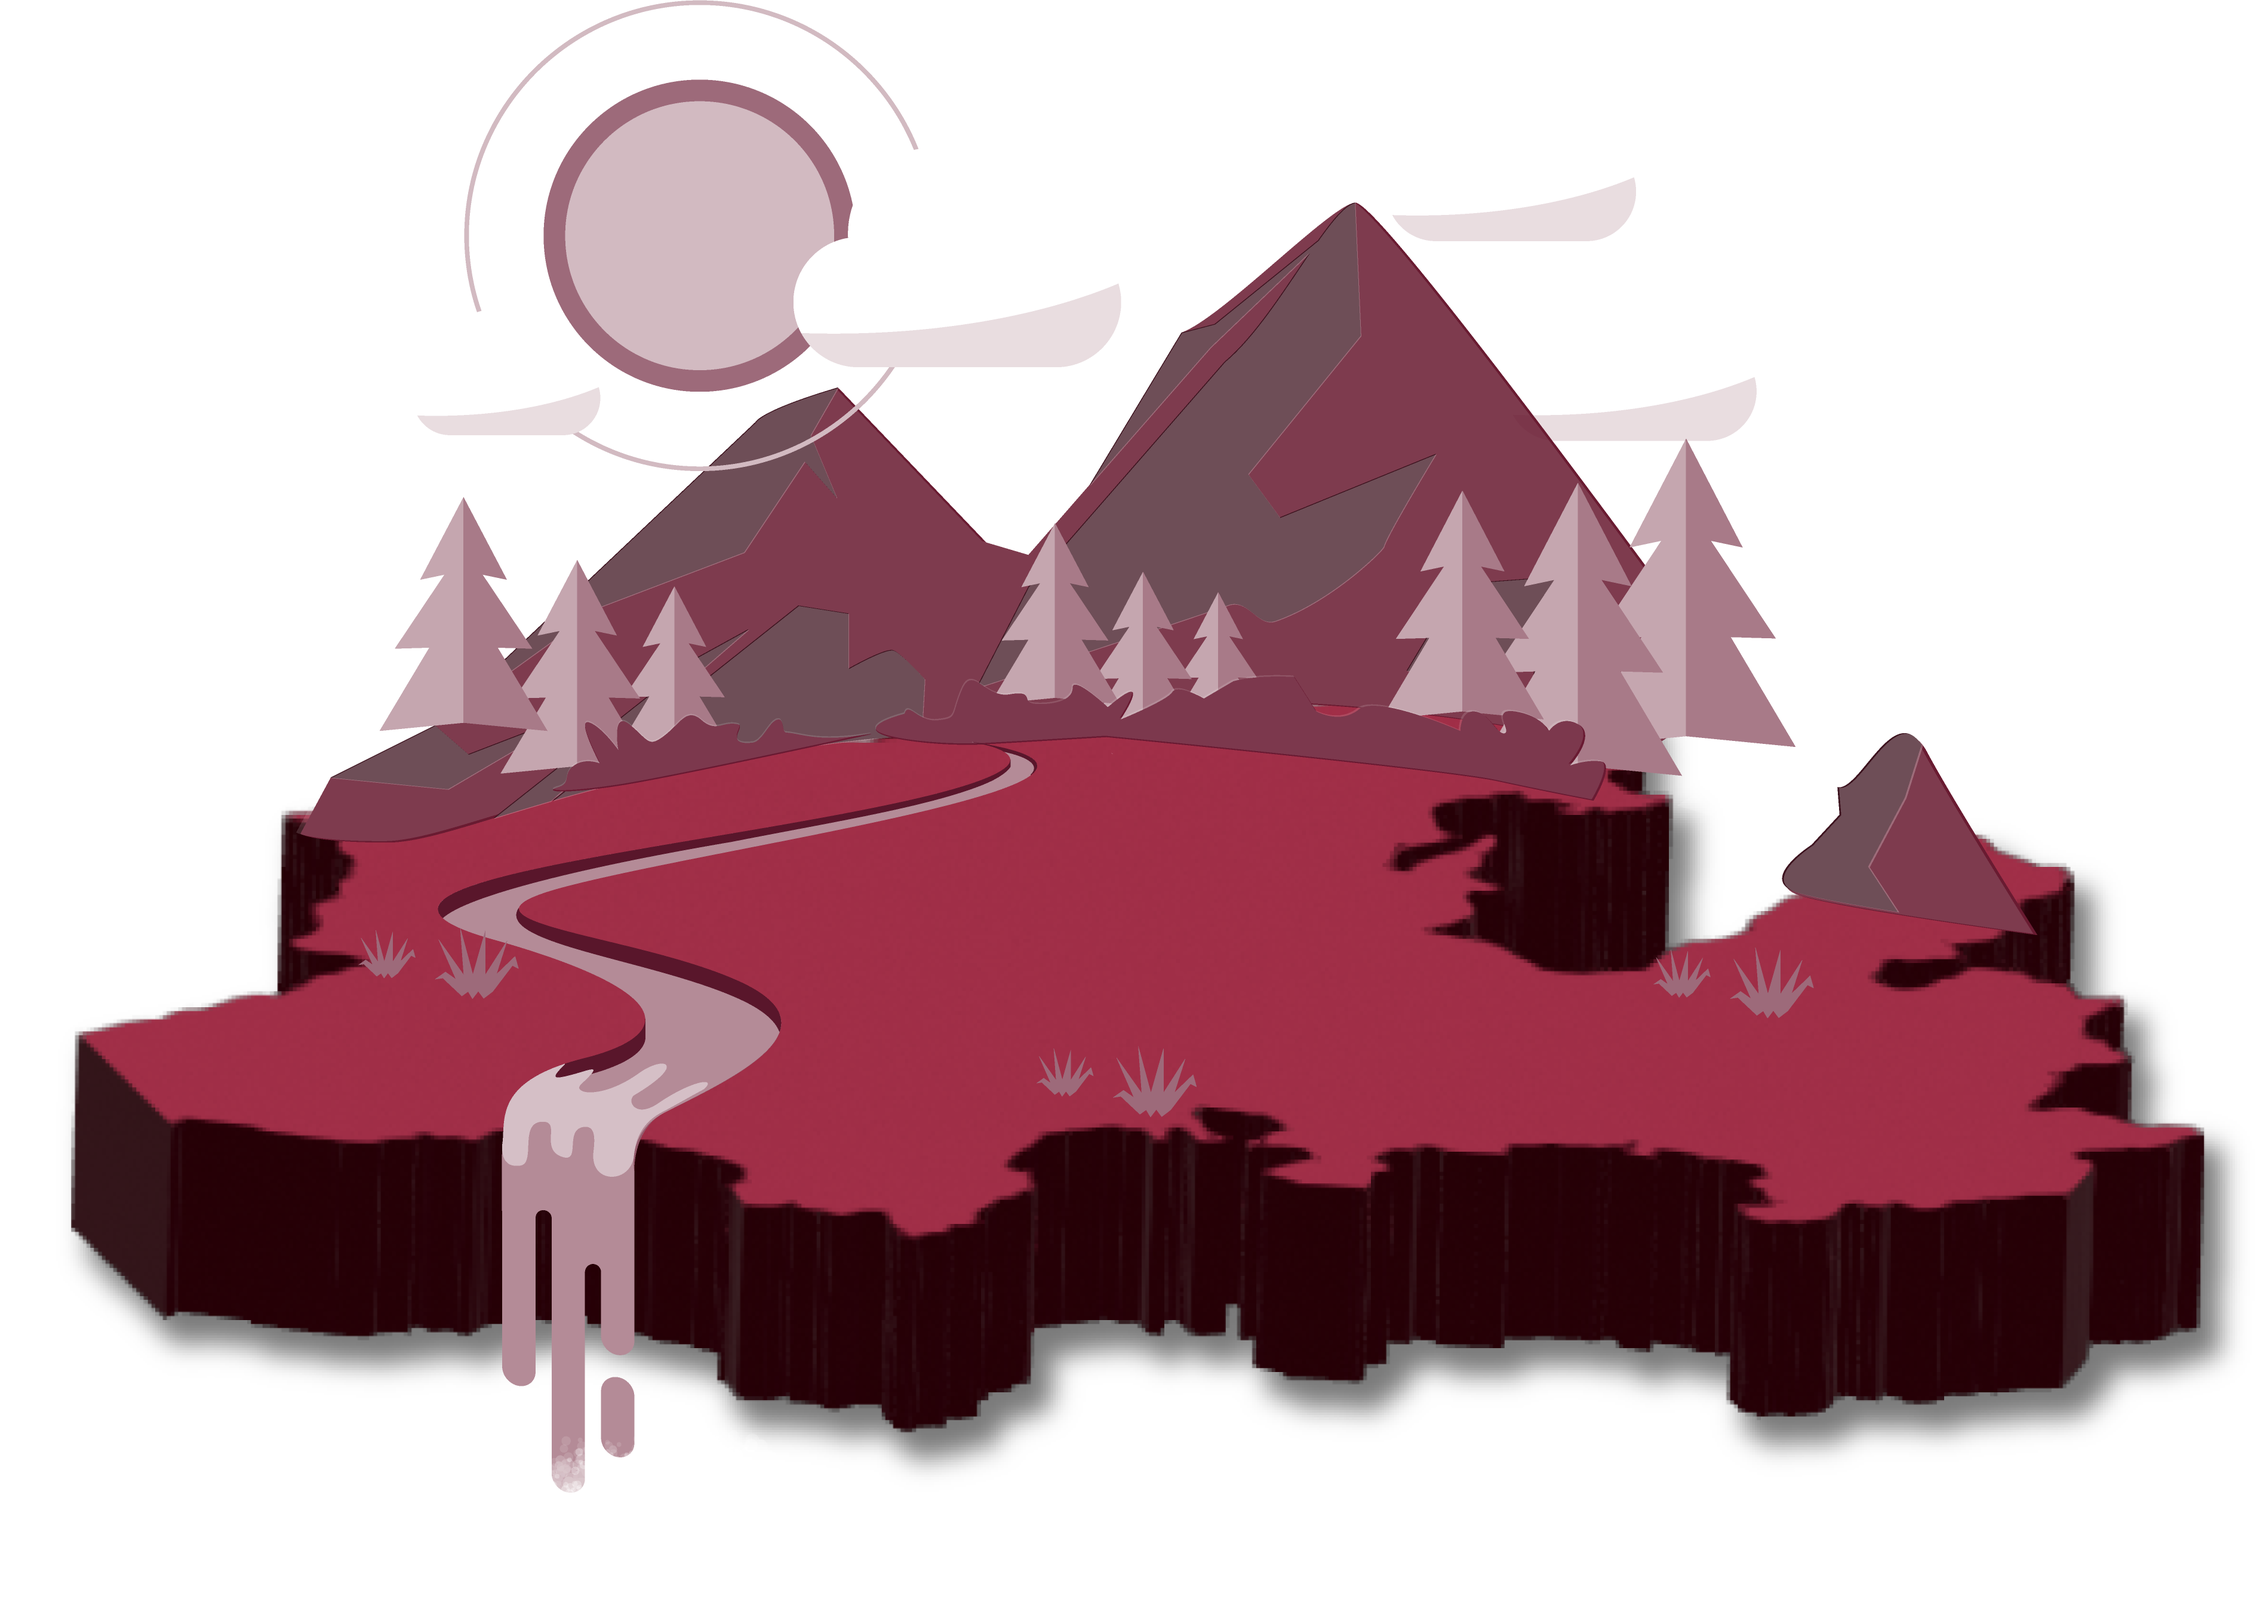
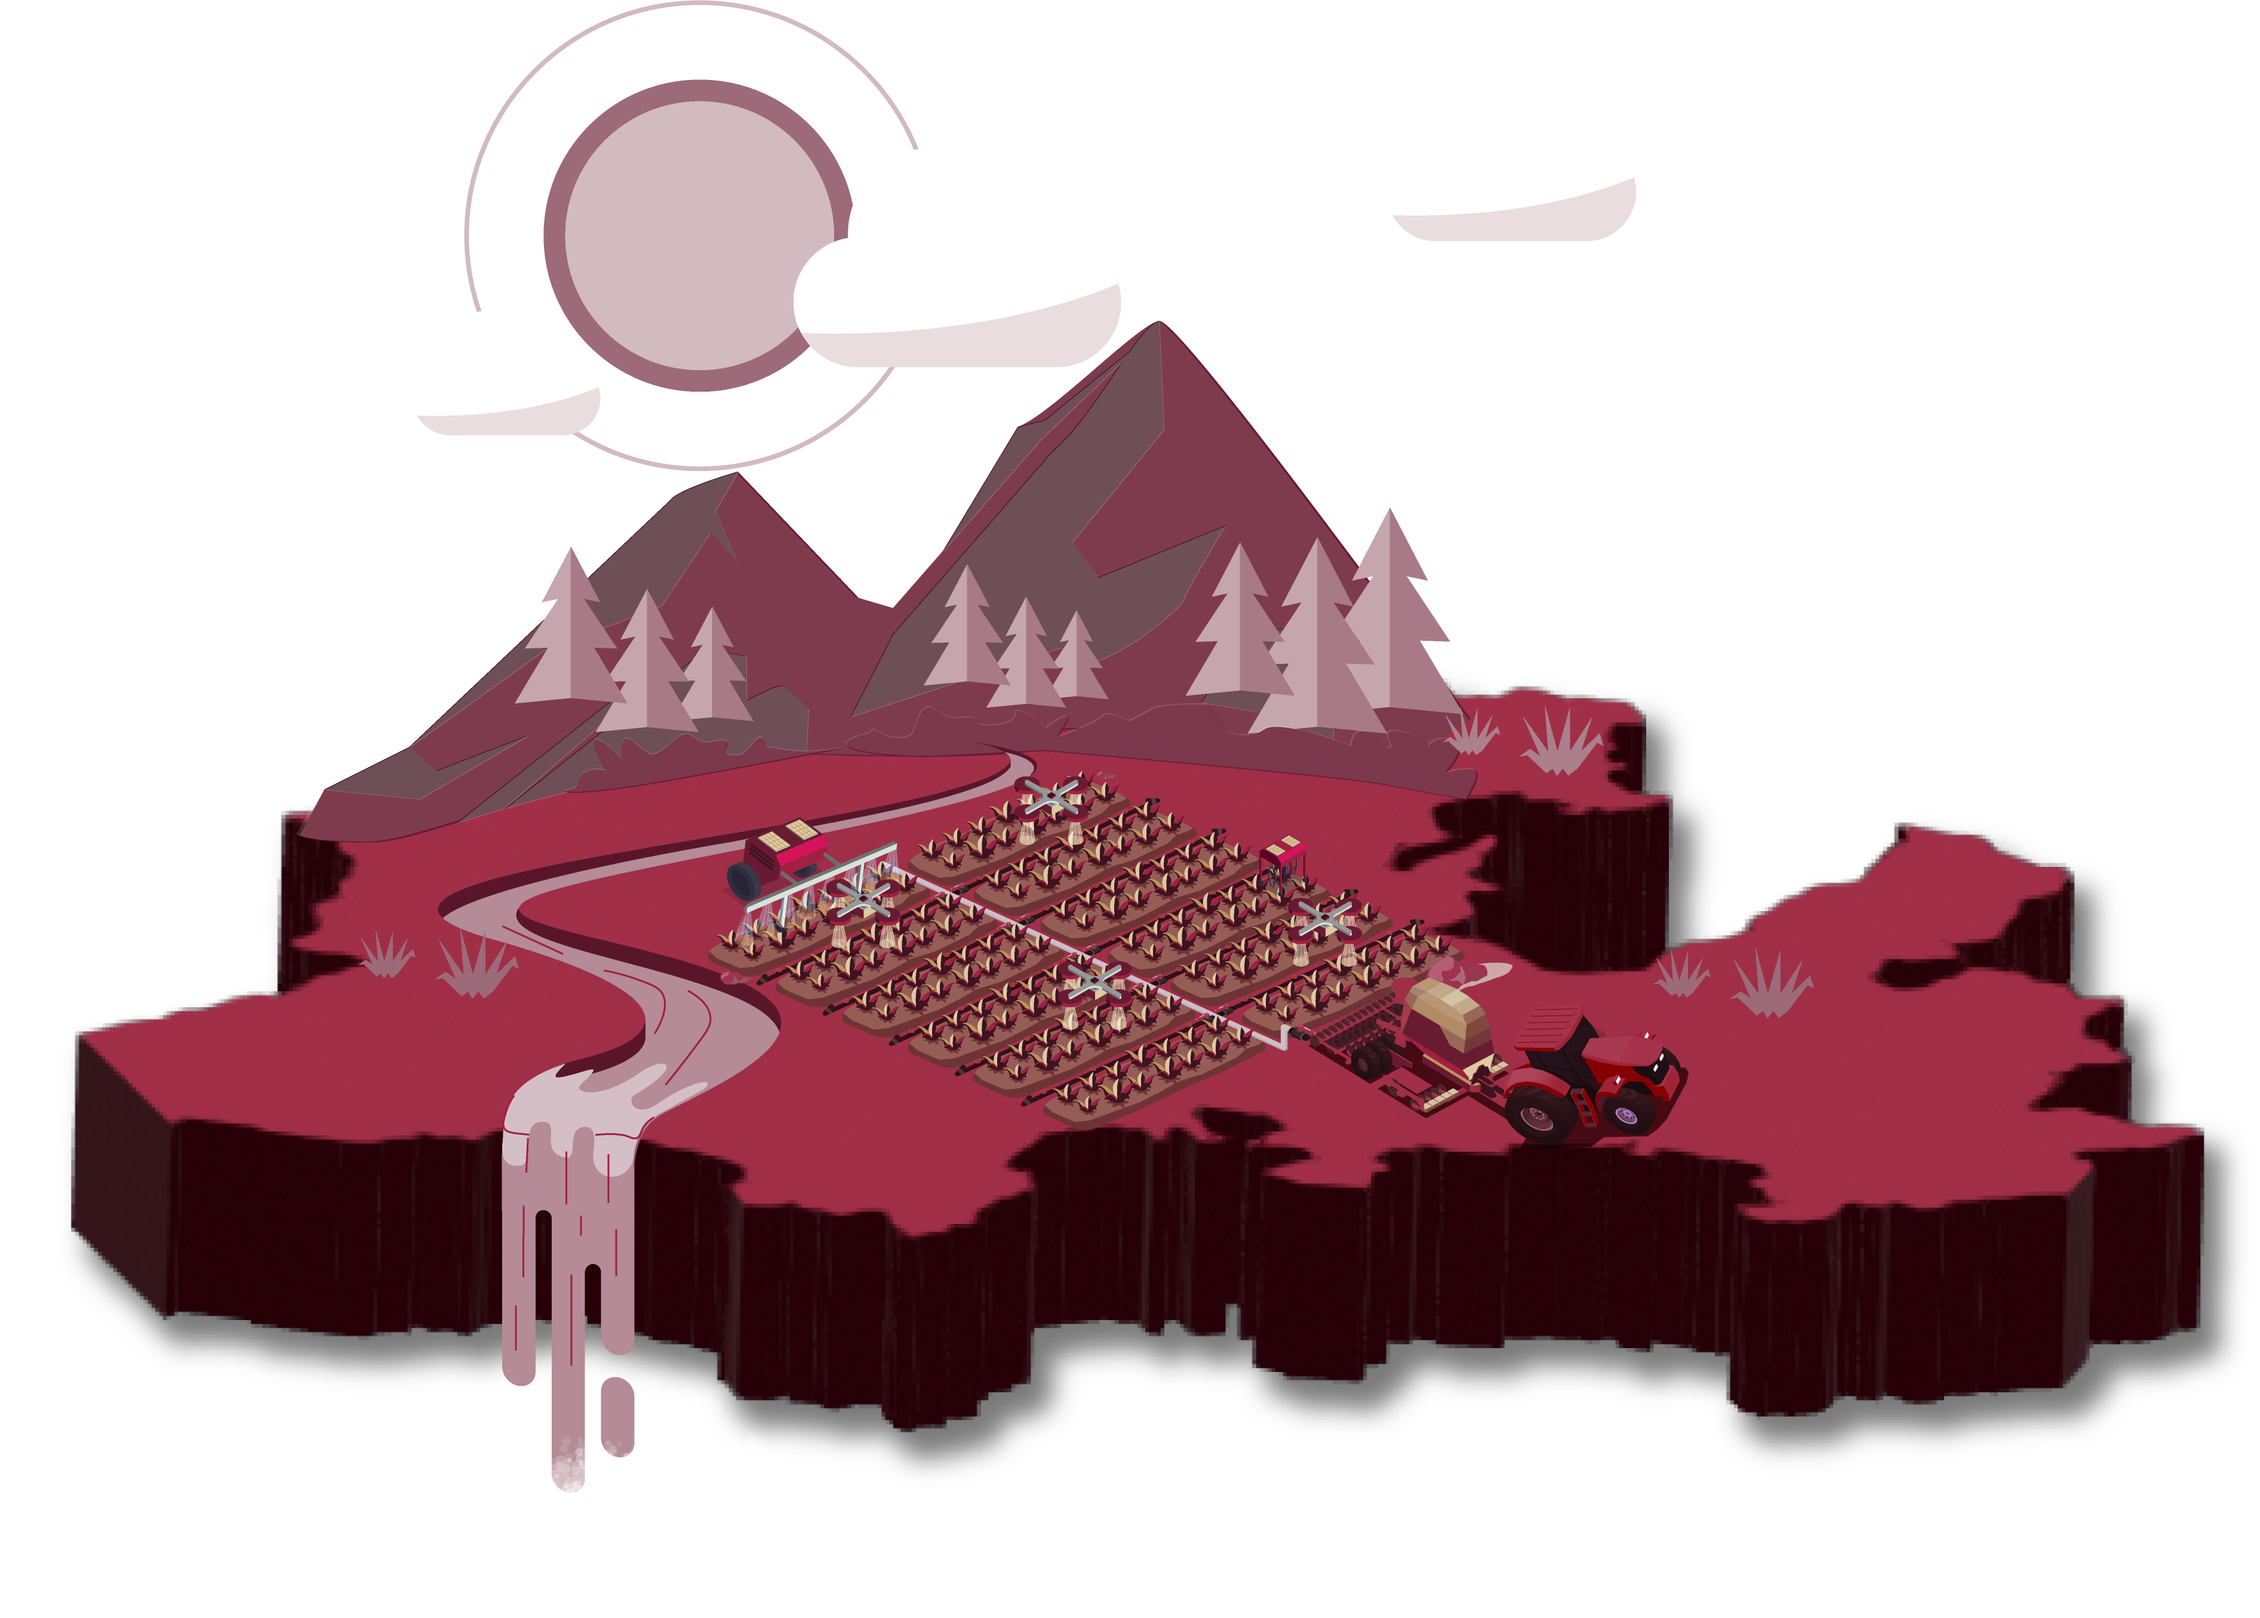
slider

Changed region(s): [[0.1559, 0.124, 0.8106, 0.7129], [0.7794, 0.4649, 0.9041, 0.5889], [0.1871, 0.4959, 0.2182, 0.5269]]

diff --git a/src/components/landing/about/Slider.js b/src/components/landing/about/Slider.js
@@ -127,8 +127,8 @@ const SingleSlider = ({ items }) => {
             {/* <div className={styles.imgContainerJustificacion}>
               <Image src={`${imgBasePath}eje2.png`} alt="prueba" width={600} height={100} objectFit="contain" />
             </div> */}
-            <div className={styles.imgContainer}>
-              <Image src={`${imgBasePath}objetivos.png`} alt="prueba" width={600} height={100} objectFit="contain" />
+            <div className={styles.imgContainerElement03}>
+              <Image src={`${imgBasePath}justificacion.png`} alt="prueba" width={600} height={100} objectFit="contain" />
             </div>
             <div className={styles.textJustificacion}>
               <h2><span className="spanVino">Justificación</span> </h2>

diff --git a/src/components/landing/about/Slider.module.css b/src/components/landing/about/Slider.module.css
@@ -24,7 +24,6 @@
   display: flex;
   align-items: center;
   width: auto;
-  background-color: bisque;
 }
 
 .text {
@@ -202,7 +201,7 @@
 
 .textJustificacion {
   background-color: aliceblue;
-  padding: 25px 30px;
+  padding: 35px 30px;
   border-radius: 30px;
 }
 
@@ -225,6 +224,20 @@
   height: 95%;
   width: auto;
 }
+
+.imgContainerElement03 {
+  width: auto;
+  width: 40vw;
+  height: 100%;
+  overflow: hidden;
+  margin-right: 3rem;
+}
+
+.imgContainerElement03 img {
+  height: auto;
+  width: 100%;
+}
+
 
 /*  */
 /*  */

diff --git a/src/components/landing/Hero.js b/src/components/landing/Hero.js
@@ -92,6 +92,9 @@ export default function Hero() {
         <div className={`${styles.headerImg}`}>
           <img src={`${imgBasePath}headerimg.png`} alt="img_representativa" className={styles.floatingImg} />
         </div>
+        <div className={`${styles.headerKey}`}>
+          <img src={`${imgBasePath}llave.png`} alt="img_representativa" className={styles.floatingImg} />
+        </div>
       </div>
       <div className={styles.maskOverlay} ref={maskRef} />
     </section>

diff --git a/src/styles/Hero.module.css b/src/styles/Hero.module.css
@@ -55,6 +55,19 @@
   height: auto;
 }
 
+.contentHeader .headerKey {
+  position: absolute;
+  top: 10.5%;
+  right: 0;
+  width: 20vw;
+  will-change: transform;
+}
+
+.contentHeader .headerKey img {
+  width: 100%;
+  height: auto;
+}
+
 .floatingImg {
   display: block;
   animation: floatingAnimation 10s infinite alternate ease-in-out, shadowAnimation 8s infinite alternate ease-in-out;
